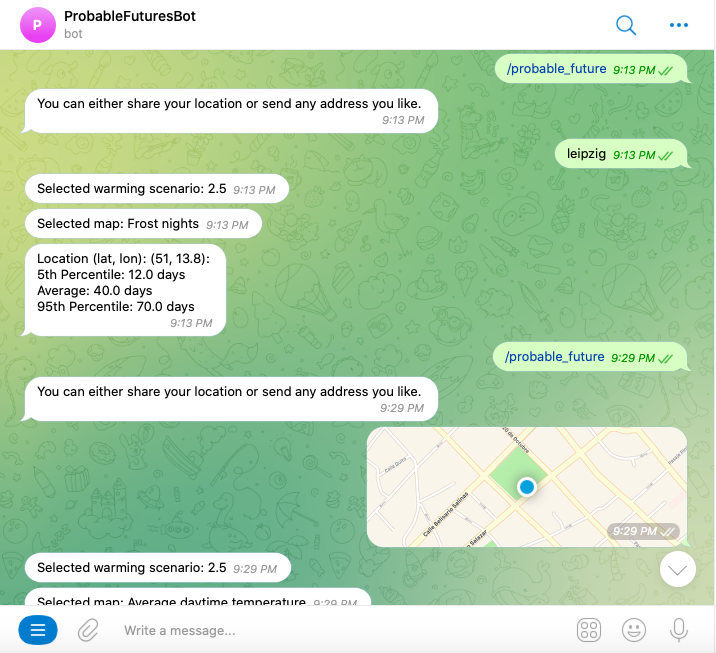
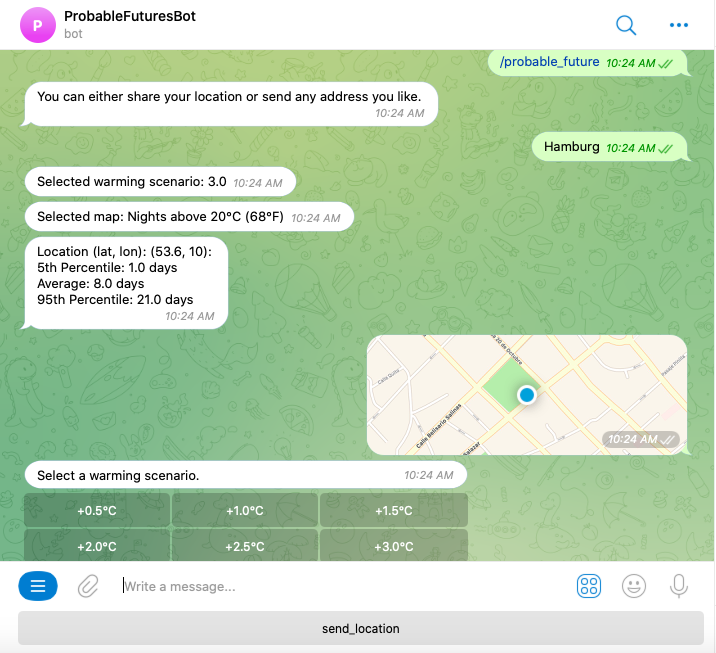
api changes from lon/lat to longitude/latitude

diff --git a/probablefuturesbot/__main__.py b/probablefuturesbot/__main__.py
@@ -144,11 +144,11 @@ def map(update: Update, context: CallbackContext) -> int:
     query.edit_message_text(text=f"Selected map: {maps[selected_map_id]}")
 
     if location_info[chat_id]:
-        lat = str(location_info[chat_id][0])
-        lon = str(location_info[chat_id][1])
+        lat = float(location_info[chat_id][0])
+        lon = float(location_info[chat_id][1])
         input_fields = {
-            "lon": lon,
-            "lat": lat,
+            "longitude": lon,
+            "latitude": lat,
             "warmingScenario": selected_warming_scenario[chat_id],
             "datasetId": selected_map_id,
         }
